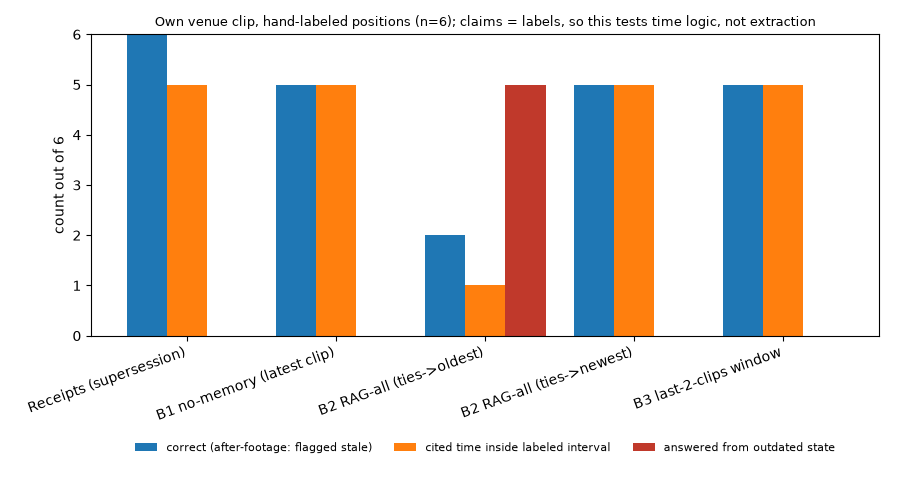
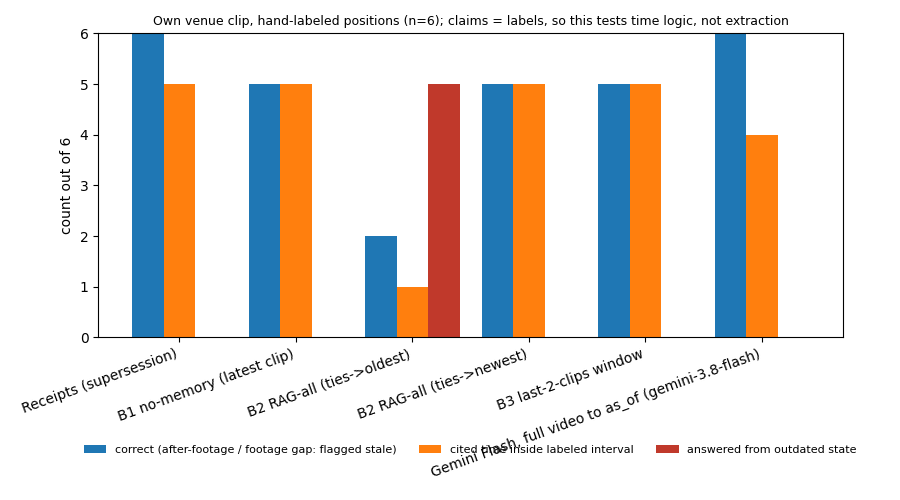
Deploy venue-only model compare and refreshed eval chart.
Gate /browse/compare to the person_moving set under COMPARE_VENUE_ONLY,
refresh webapp/results_real.png, and update the board EVAL caption for Gemini.

Changed region(s): [[0.0311, 0.03, 0.9333, 0.96]]

diff --git a/viewer/serve.py b/viewer/serve.py
@@ -129,6 +129,8 @@ def _allow_local_clip(cid):
 
 
 EVAL_DIR = os.path.join(ROOT, "eval")
+# VAST app deploy sets COMPARE_VENUE_ONLY=1 so /compare never lists YouTube bridge/garage sets.
+COMPARE_VENUE_ONLY = os.environ.get("COMPARE_VENUE_ONLY", "").lower() in ("1", "true", "yes")
 
 
 def compare_sets():
@@ -138,6 +140,8 @@ def compare_sets():
         if not (f.startswith("questions_") and f.endswith(".json")):
             continue
         name = f[len("questions_"):-len(".json")]
+        if COMPARE_VENUE_ONLY and name != "real":
+            continue
         try:
             with open(os.path.join(EVAL_DIR, f), encoding="utf-8") as fh:
                 d = json.load(fh)
@@ -157,6 +161,8 @@ def api_compare(set_name="real"):
     """Model comparison for one question set: questions, the scene's clips on their clock, and the
     committed eval results (eval/compare.py output). Read-only; never calls a model."""
     if not set_name.replace("_", "").isalnum():
+        return None
+    if COMPARE_VENUE_ONLY and set_name != "real":
         return None
     qpath = os.path.join(EVAL_DIR, f"questions_{set_name}.json")
     rpath = RESULTS_PATH if set_name == "real" else os.path.join(EVAL_DIR, "out", f"results_{set_name}.json")

diff --git a/webapp/main.py b/webapp/main.py
@@ -1045,7 +1045,7 @@ a.cmp-link{text-decoration:none;display:inline-block;opacity:.85}
 
   <section id="evalPanel">
     <h2>EVAL</h2>
-    <p class="meta">Own footage filmed at the venue today, 6 hand-labeled questions. Same claims for every system, so this isolates time handling. After the camera stopped, the 4 baselines answered with confidence; Receipts flagged stale. Labels: <code>eval/questions_real.json</code>.</p>
+    <p class="meta">Own footage filmed at the venue today, 6 hand-labeled questions. The four memory-based baselines answered with confidence after the camera stopped; Receipts flagged stale. Gemini Flash, re-watching the clip per question, also caught it; Receipts does it from stored claims with cited clips.</p>
     <img src="results_real.png" alt="Receipts vs baselines on venue clip" style="max-width:100%;border:1px solid var(--line);margin-top:.5rem;background:#0e1210"/>
   </section>
 </main>
